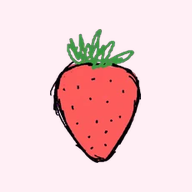
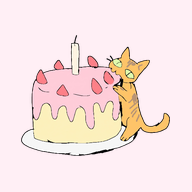
Cambia los íconos: la torta en la pestaña y Dina comiendo la torta en la app

Changed region(s): [[0.0938, 0.125, 0.9062, 0.875], [0.125, 0.75, 0.1875, 0.7812]]

diff --git a/sw.js b/sw.js
@@ -1,5 +1,5 @@
-const C='torta-runner-v19';
-const FILES=["./", "index.html", "config.js", "manifest.json", "icon-192.png", "icon-512.png", "assets/cinthia.webp", "assets/deisy.webp", "assets/dina.webp", "assets/dina_avatar.webp", "assets/fiesta.mp4", "assets/fiesta.webm", "assets/fiesta_poster.webp", "assets/frutilla.webp", "assets/leandro.webp", "assets/nora.webp", "assets/nubes.webp", "assets/sofi.webp", "assets/sofi_hoodie.webp", "assets/texto.webp", "assets/torta.webp", "assets/vela.mp4", "assets/vela.webm", "assets/vela_poster.webp"];
+const C='torta-runner-v21';
+const FILES=["./", "index.html", "config.js", "manifest.json", "icon-192.png", "icon-512.png", "favicon-32.png", "assets/cinthia.webp", "assets/deisy.webp", "assets/dina.webp", "assets/dina_avatar.webp", "assets/fiesta.mp4", "assets/fiesta.webm", "assets/fiesta_poster.webp", "assets/frutilla.webp", "assets/leandro.webp", "assets/nora.webp", "assets/nubes.webp", "assets/sofi.webp", "assets/sofi_hoodie.webp", "assets/texto.webp", "assets/torta.webp", "assets/vela.mp4", "assets/vela.webm", "assets/vela_poster.webp"];
 self.addEventListener('install',e=>{e.waitUntil(caches.open(C).then(c=>c.addAll(FILES)));self.skipWaiting()});
 self.addEventListener('activate',e=>{e.waitUntil(caches.keys().then(ks=>Promise.all(ks.filter(k=>k!==C).map(k=>caches.delete(k)))));self.clients.claim()});
 self.addEventListener('fetch',e=>{

diff --git a/index.html b/index.html
@@ -7,6 +7,8 @@
 <meta name="apple-mobile-web-app-capable" content="yes">
 <meta name="mobile-web-app-capable" content="yes">
 <link rel="manifest" href="manifest.json">
+<link rel="icon" type="image/png" sizes="32x32" href="favicon-32.png">
+<link rel="icon" type="image/png" sizes="192x192" href="icon-192.png">
 <link rel="apple-touch-icon" href="icon-192.png">
 <script>window.PWA=true</script>
 <script src="config.js"></script>
